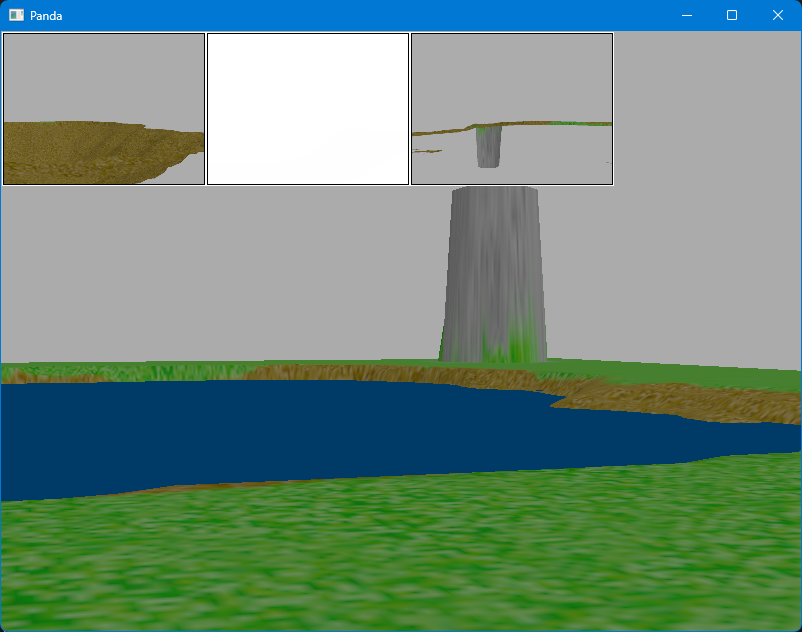
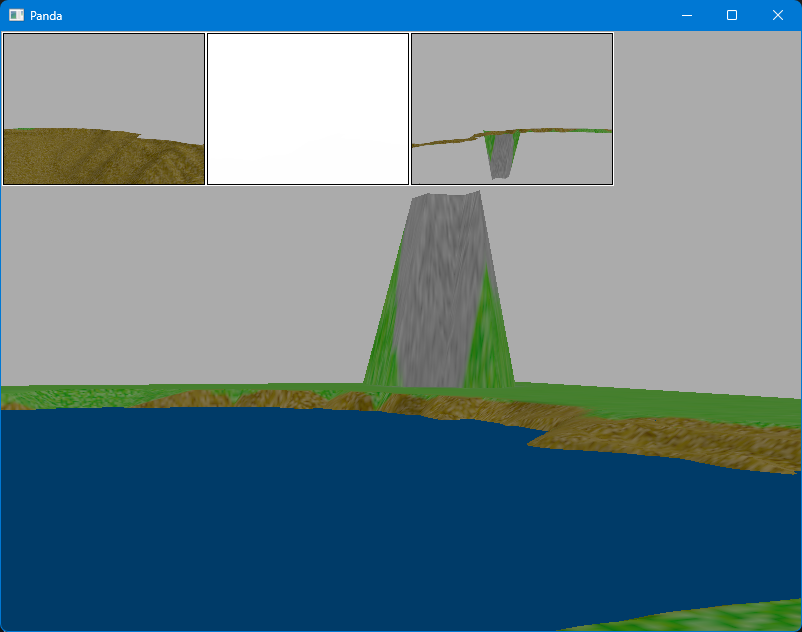
Switch to GeoMipTerrain for PBR terrain lesson 5.

diff --git a/pbr/terrain/05-reflection_and_refraction/main.py b/pbr/terrain/05-reflection_and_refraction/main.py
@@ -2,7 +2,9 @@ from direct.showbase.ShowBase import ShowBase
 from panda3d.core import (
     AmbientLight,
     DirectionalLight,
+    GeoMipTerrain,
     load_prc_file,
+    Material,
     SamplerState,
     Shader,
     TextureStage,
@@ -40,6 +42,14 @@ class TerrainDemo(ShowBase):
         self.sun.set_hpr(45, -45, 0)
         self.render.set_light(self.sun)
 
+        # Create materials
+        terrain_mat = Material("Terrain")
+        terrain_mat.set_base_color(Vec4(0, .5, 0, 1))
+        terrain_mat.set_metallic(0)
+        terrain_mat.set_emission(Vec4(0, 0, 0, 1))
+        terrain_mat.set_roughness(.8)
+        terrain_mat.set_refractive_index(1.5)
+
         # Load textures
         self.grass_tex = self.loader.load_texture("images/Grass.png")
         self.grass_tex.minfilter = SamplerState.FT_linear_mipmap_linear
@@ -62,30 +72,35 @@ class TerrainDemo(ShowBase):
         self.color_mask_tex.magfilter = SamplerState.FT_linear_mipmap_linear
 
         # Load terrain
-        self.terrain = self.loader.load_model("meshes/Terrain.gltf")
-        self.terrain.set_scale(256, 256, 256)
-        self.terrain.set_pos(0, 261, 0)
+        self.terrain = GeoMipTerrain("Terrain")
+        self.terrain.set_heightfield("images/Heightmap.png")
+        self.terrain.set_block_size(32)
+        self.terrain.set_focal_point(self.camera)
 
-        self.terrain.set_shader(self.terrain_shader)
-        self.terrain.set_shader_input("texScale0", Vec2(.1, .1))
-        self.terrain.set_shader_input("texScale1", Vec2(.1, .1))
-        self.terrain.set_shader_input("texScale2", Vec2(.1, .1))
-        self.terrain.set_shader_input("texScale3", Vec2(.1, .1))
+        self.terrain.get_root().set_sz(128)
+        self.terrain.get_root().set_pos(-256, 0, -64)
+        self.terrain.get_root().set_material(terrain_mat)
+
+        self.terrain.get_root().set_shader(self.terrain_shader)
+        self.terrain.get_root().set_shader_input("texScale0", Vec2(.1, .1))
+        self.terrain.get_root().set_shader_input("texScale1", Vec2(.1, .1))
+        self.terrain.get_root().set_shader_input("texScale2", Vec2(.1, .1))
+        self.terrain.get_root().set_shader_input("texScale3", Vec2(.1, .1))
 
         stage0 = TextureStage("Grass")
-        stage0.set_texcoord_name("0")
         stage1 = TextureStage("Dirt")
         stage2 = TextureStage("Rock")
         stage3 = TextureStage("Blank")
         stage4 = TextureStage("ColorMask")
 
-        self.terrain.set_texture(stage0, self.grass_tex)
-        self.terrain.set_texture(stage1, self.dirt_tex)
-        self.terrain.set_texture(stage2, self.rock_tex)
-        self.terrain.set_texture(stage3, self.blank_tex)
-        self.terrain.set_texture(stage4, self.color_mask_tex)
+        self.terrain.get_root().set_texture(stage0, self.grass_tex)
+        self.terrain.get_root().set_texture(stage1, self.dirt_tex)
+        self.terrain.get_root().set_texture(stage2, self.rock_tex)
+        self.terrain.get_root().set_texture(stage3, self.blank_tex)
+        self.terrain.get_root().set_texture(stage4, self.color_mask_tex)
 
-        self.terrain.reparent_to(self.render)
+        self.terrain.generate()
+        self.terrain.get_root().reparent_to(self.render)
 
         # Load water plane
         self.water = WaterPlane(
@@ -93,10 +108,18 @@ class TerrainDemo(ShowBase):
             scale=Vec3(256, 256, 1)
         )
 
+        # Add update task
+        self.task_mgr.add(self.update, "update")
+
         # Configure buffer viewer
         self.bufferViewer.setPosition("ulcorner")
         self.bufferViewer.setCardSize(.5, 0)
         self.accept("v", self.bufferViewer.toggleEnable)
+
+    def update(self, task):
+        # Update terrain
+        self.terrain.update()
+        return task.cont
 
 
 # Entry Point
